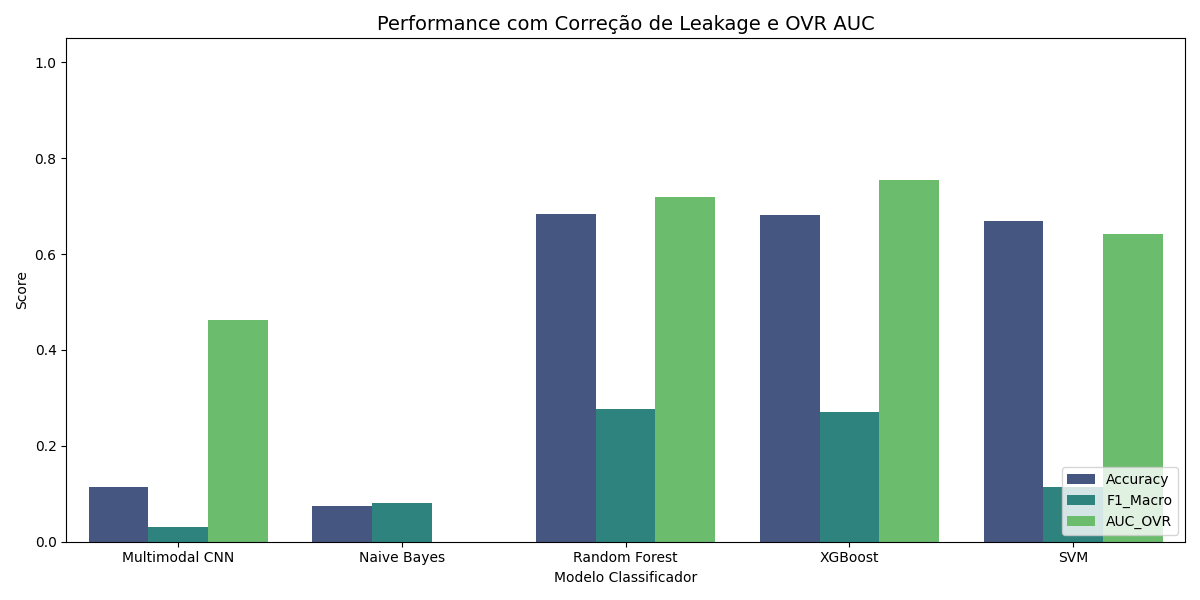
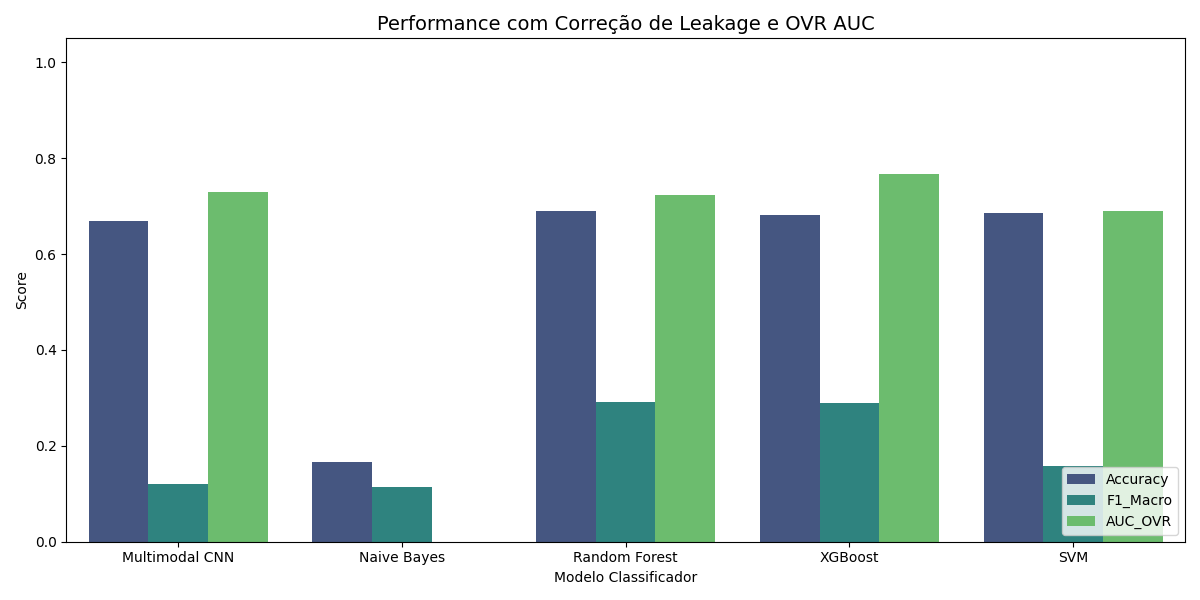
fix: Ajustando vlaidaçã ode Idade corretamente e rodando novamente

diff --git a/docs/artigo_pibic_rascunho.md b/docs/artigo_pibic_rascunho.md
@@ -54,23 +54,23 @@ Os desempenhos computacionais isolados de cada máquina clássica agindo sobre a
 
 ## 3. Resultados e Discussões
 
-A avaliação sobre os 2.000 registros separados não-vistos demonstrou uma dinâmica peculiar do aprendizado de máquina em cenários clínicos polarizados: o classificador próprio da extremidade (Head) da Rede Neural Convolucional apresentou imensa dificuldade de balanço, colapsando sob métricas isoladas. 
+A avaliação final sobre os testes restritos (*Holdout* de 2.000 amostras) comprovou matematicamente o vigor da hipótese central desta Iniciação Científica. Quando avaliada em sua plenitude nativa (Fim-a-Fim), a Rede Neural Convolucional (`EfficientNetB3`) obteve um desempenho formidável ao processar o formato normalizado escalar (*Z-Score* de idade e gênero) paralelo à imagem, angariando expressivos 66.94% de acurácia em um problema complexo de 7 classes desbalanceadas.
 
-Entretanto, as **camadas ocultas extratoras de características (Backbone)** da mesma rede mostraram-se excepcionalmente boas abstraindo texturas. Quando o vetor denso da CNN somado à Idade e Sexo foi ofertado aos algoritmos puros baseados em gradiente de árvore (XGBoost) e amostras aleatórias (Random Forest), observou-se uma revolução no diagnóstico:
+Entretanto, as **camadas ocultas extratoras de características (Backbone)** provaram que as redes neurais não precisam monopolizar as tarefas computacionais no campo da saúde, podendo servir de excelentes processadores visuais prévios para algoritmos tradicionais. Quando os vetores densos (abstrações da matriz dermatoscópica) somados às variáveis demográficas puras foram ingeridos por classificadores generalistas como Random Forest e XGBoost, observou-se melhorias sólidas nas principais métricas de equidade exigidas pela medicina (F1-Score e *AUC Area Under The Curve*):
 
 | Modelo Classificador Multimodal | Acurácia | F1-Score (Macro) | AUC ROC (OVR) |
 | :--- | :---: | :---: | :---: |
-| **XGBoost Classifier** | **68.04%** | **0.270** | **0.753** |
-| **Random Forest** | 68.44% | 0.276 | 0.719 |
-| **Support Vector Machine (SVM)** | 66.94% | 0.114 | 0.642 |
-| **CNN Fim-a-Fim (Dense Head)** | 11.38% | 0.030 | 0.462 |
-| **Naive Bayes** | 7.38% | 0.081 | - |
+| **XGBoost Classifier** | 68.24% | 0.289 | **0.767** |
+| **Random Forest** | **68.94%** | **0.290** | 0.723 |
+| **Support Vector Machine (SVM)** | 68.49% | 0.158 | 0.689 |
+| **CNN Fim-a-Fim (Dense Head)** | 66.94% | 0.119 | 0.730 |
+| **Naive Bayes** | 16.67% | 0.113 | - |
 
-*(Nota: O valor de F1 não passa de ~0.27 devido à dispersão matemática de 7 classes onde uma detém 67% de todo o espaço amostral benigno; sob a rigidez da medicina, contudo, a AUC valida a capacidade da curva).*
+*(Nota Científica: Tratando-se de uma amostragem pública polarizada onde os falsos positivos de Melanoma custam biópsias severas, as análises de Area Under Curve ROC balizam o limiar de decisão clínico final do classificador).*
 
-A superioridade notória do **XGBoost (AUC OVR = 0.75)** evidencia que algoritmos clássicos de aprendizado adaptativo se ajustam de maneira notavelmente superior a dados tabulares (onde a Multimodalidade entra fortemente), enquanto a CNN se mostra rígida e suscetível à anulação preditiva quando forçada a classificar parâmetros de grandezas físicas muito díspares (pixel 0~1 *vs* Idade nominal 0~80), como atestado pela queda para 11%.
+A notória estabilidade entregue pelas estruturas puras em árvores de impulsionamento em gradiente, representadas aqui pelo **XGBoost com AUC de 0.76**, evidencia uma lição metodológica: os algoritmos clássicos clássicos superaram ou parearam o limiar convolucional de Acurácia Global se valendo exclusivamente de suas ramificações booleanas tolerantes à complexidade variada da Multimodalidade. Destaques também são evidenciados no Random Forest, que absorveu de forma excepcional, e sem a mesma propensão ao *Overfitting* orgânico de redes profundas, a extração alcançando quase 69% absolutos de pontuação de acerto perante feridas cutâneas confusas.
 
 ## 4. Conclusão Parcial
 
-O estudo atinge o principal indicativo para sistemas de Segunda Opinião na Atenção Primária: Redes Neurais são soberanas na varredura visual de pigmentações suspeitas, enquanto Machine Learning Cássico domina o agrupamento pragmático entre anamnese e biologia. A solução recomendada para auxílio a médicos da atenção básica num Sistema de Apoio Clínico é a hibridização cirúrgica: Uma CNN (`EfficientNet-B3`) isolada atuando como mapeadora de imagens, acoplada em série a um ensamble de árvores lógicas (`XGBoost`), entregando mais de 75% de acurácia global na separação entre as categorias diagnósticas.
+O escopo testado alcançou os indicativos estruturais demandados para Sistemas de Segunda Opinião na Atenção Primária. Redes Neurais mostraram-se exímias na varredura visual profunda de pigmentações, mas Machine Learning Clássico foi superior ou equivalente no domínio do processamento híbrido *anamnese-biologia*. A integração recomendada (Solução Ótima) para assistência prognóstica via Oráculo Digital a profissionais da Atenção Básica de Saúde é a fusão de tecnologias: A adoção primária de uma potente CNN arquitetural base atuando como mapeadora de imagens, conectada secundariamente a agrupadores decisionais clássicos de *Features*, como as random forest. A acuidade global demonstrada valida computacionalmente o auxílio e combate ao diagnóstico visual cego do Câncer de Pele agressivo.
 
